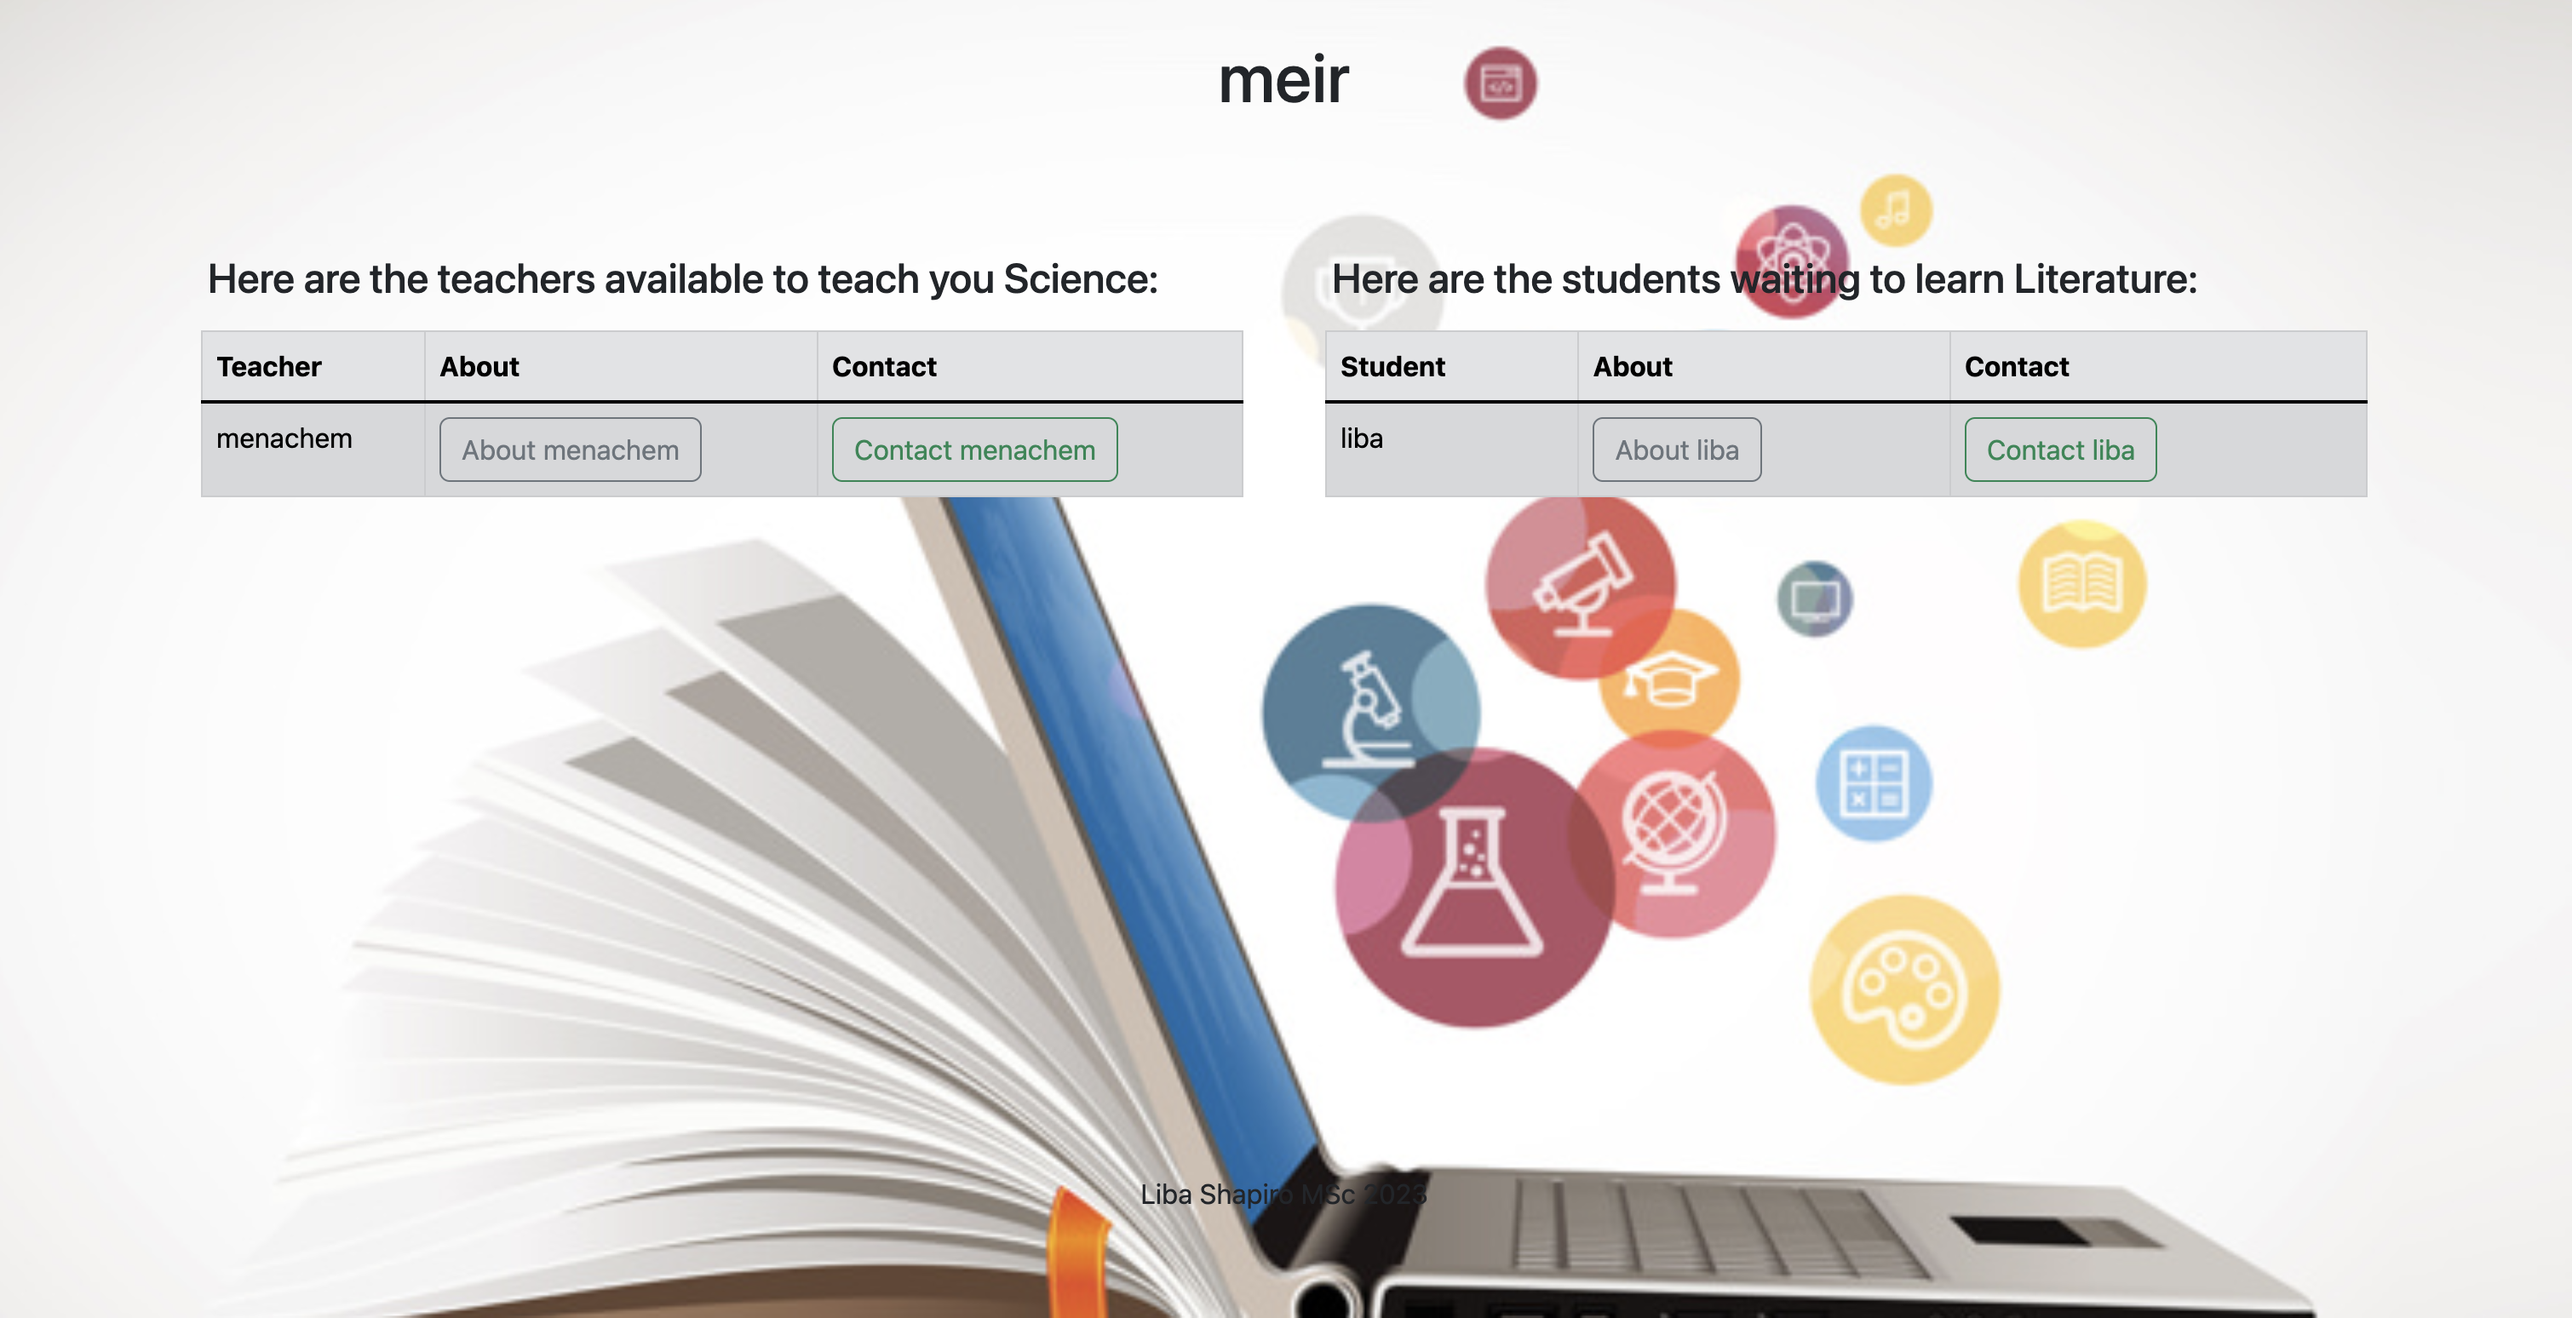
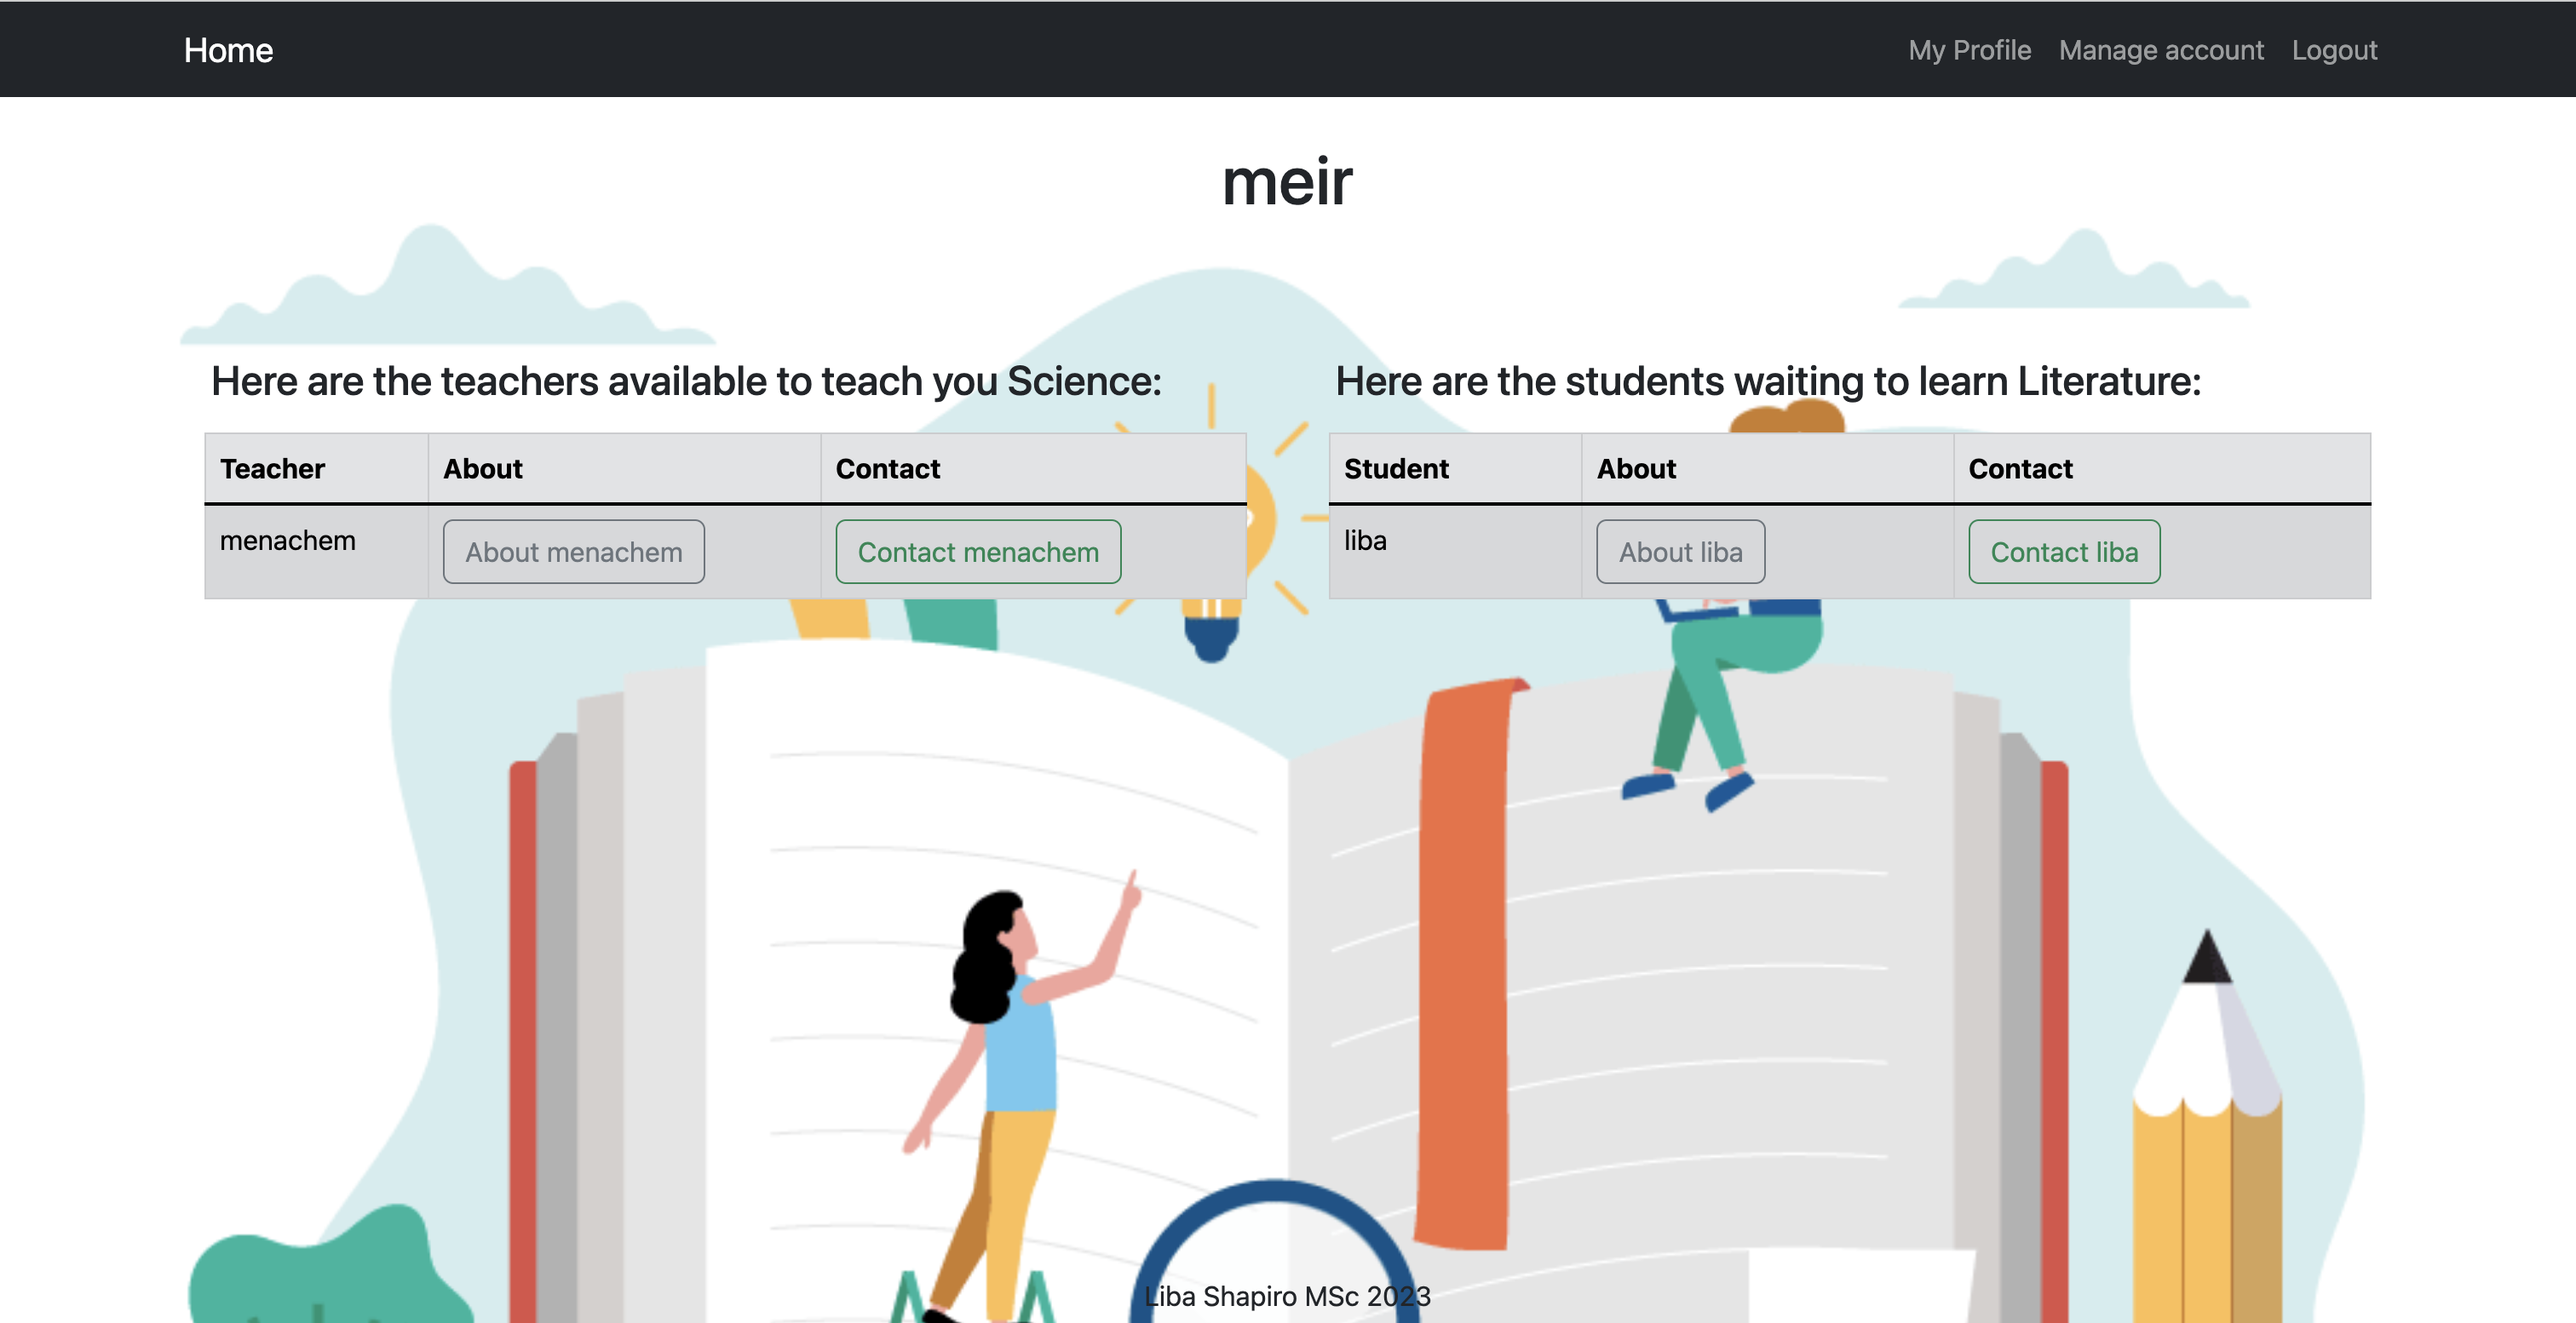
Change visuals

diff --git a/app/(auth)/login/page.module.scss b/app/(auth)/login/page.module.scss
@@ -1,16 +1,15 @@
 .h1 {
   color: #6b6454;
   text-align: center;
-  margin: 50px;
+  padding: 50px;
 }
 
 .body {
-  background: url('../../../public/grouplearning.jpeg');
+  background: url('../../../public/book.webp');
 
-  background-size: contain;
+  background-size: cover;
   height: 100vh;
   width: 100vw;
-  background-repeat: repeat-x;
 }
 
 .container {

diff --git a/app/profile/[username]/page.module.scss b/app/profile/[username]/page.module.scss
@@ -1,5 +1,5 @@
 .div {
-  background: url('../../../public/booklearning.jpeg');
+  background: url('../../../public/growing.webp');
   background-size: cover;
   min-height: 100vh;
   background-attachment: fixed;

diff --git a/app/page.module.scss b/app/page.module.scss
@@ -1,6 +1,6 @@
 .div {
   background: url('../public/learning.jpeg');
-  background-size: contain;
+  background-size: cover;
   height: 100vh;
   width: 100vw;
   background-repeat: repeat-x;

diff --git a/README.md b/README.md
@@ -32,10 +32,6 @@ Registration:
 <br>
 ![registration](public/register.png)
 
-Login:
-<br>
-![login](public/login.png)
-
 Profile:
 <br>
 ![profile](public/profile.png)
